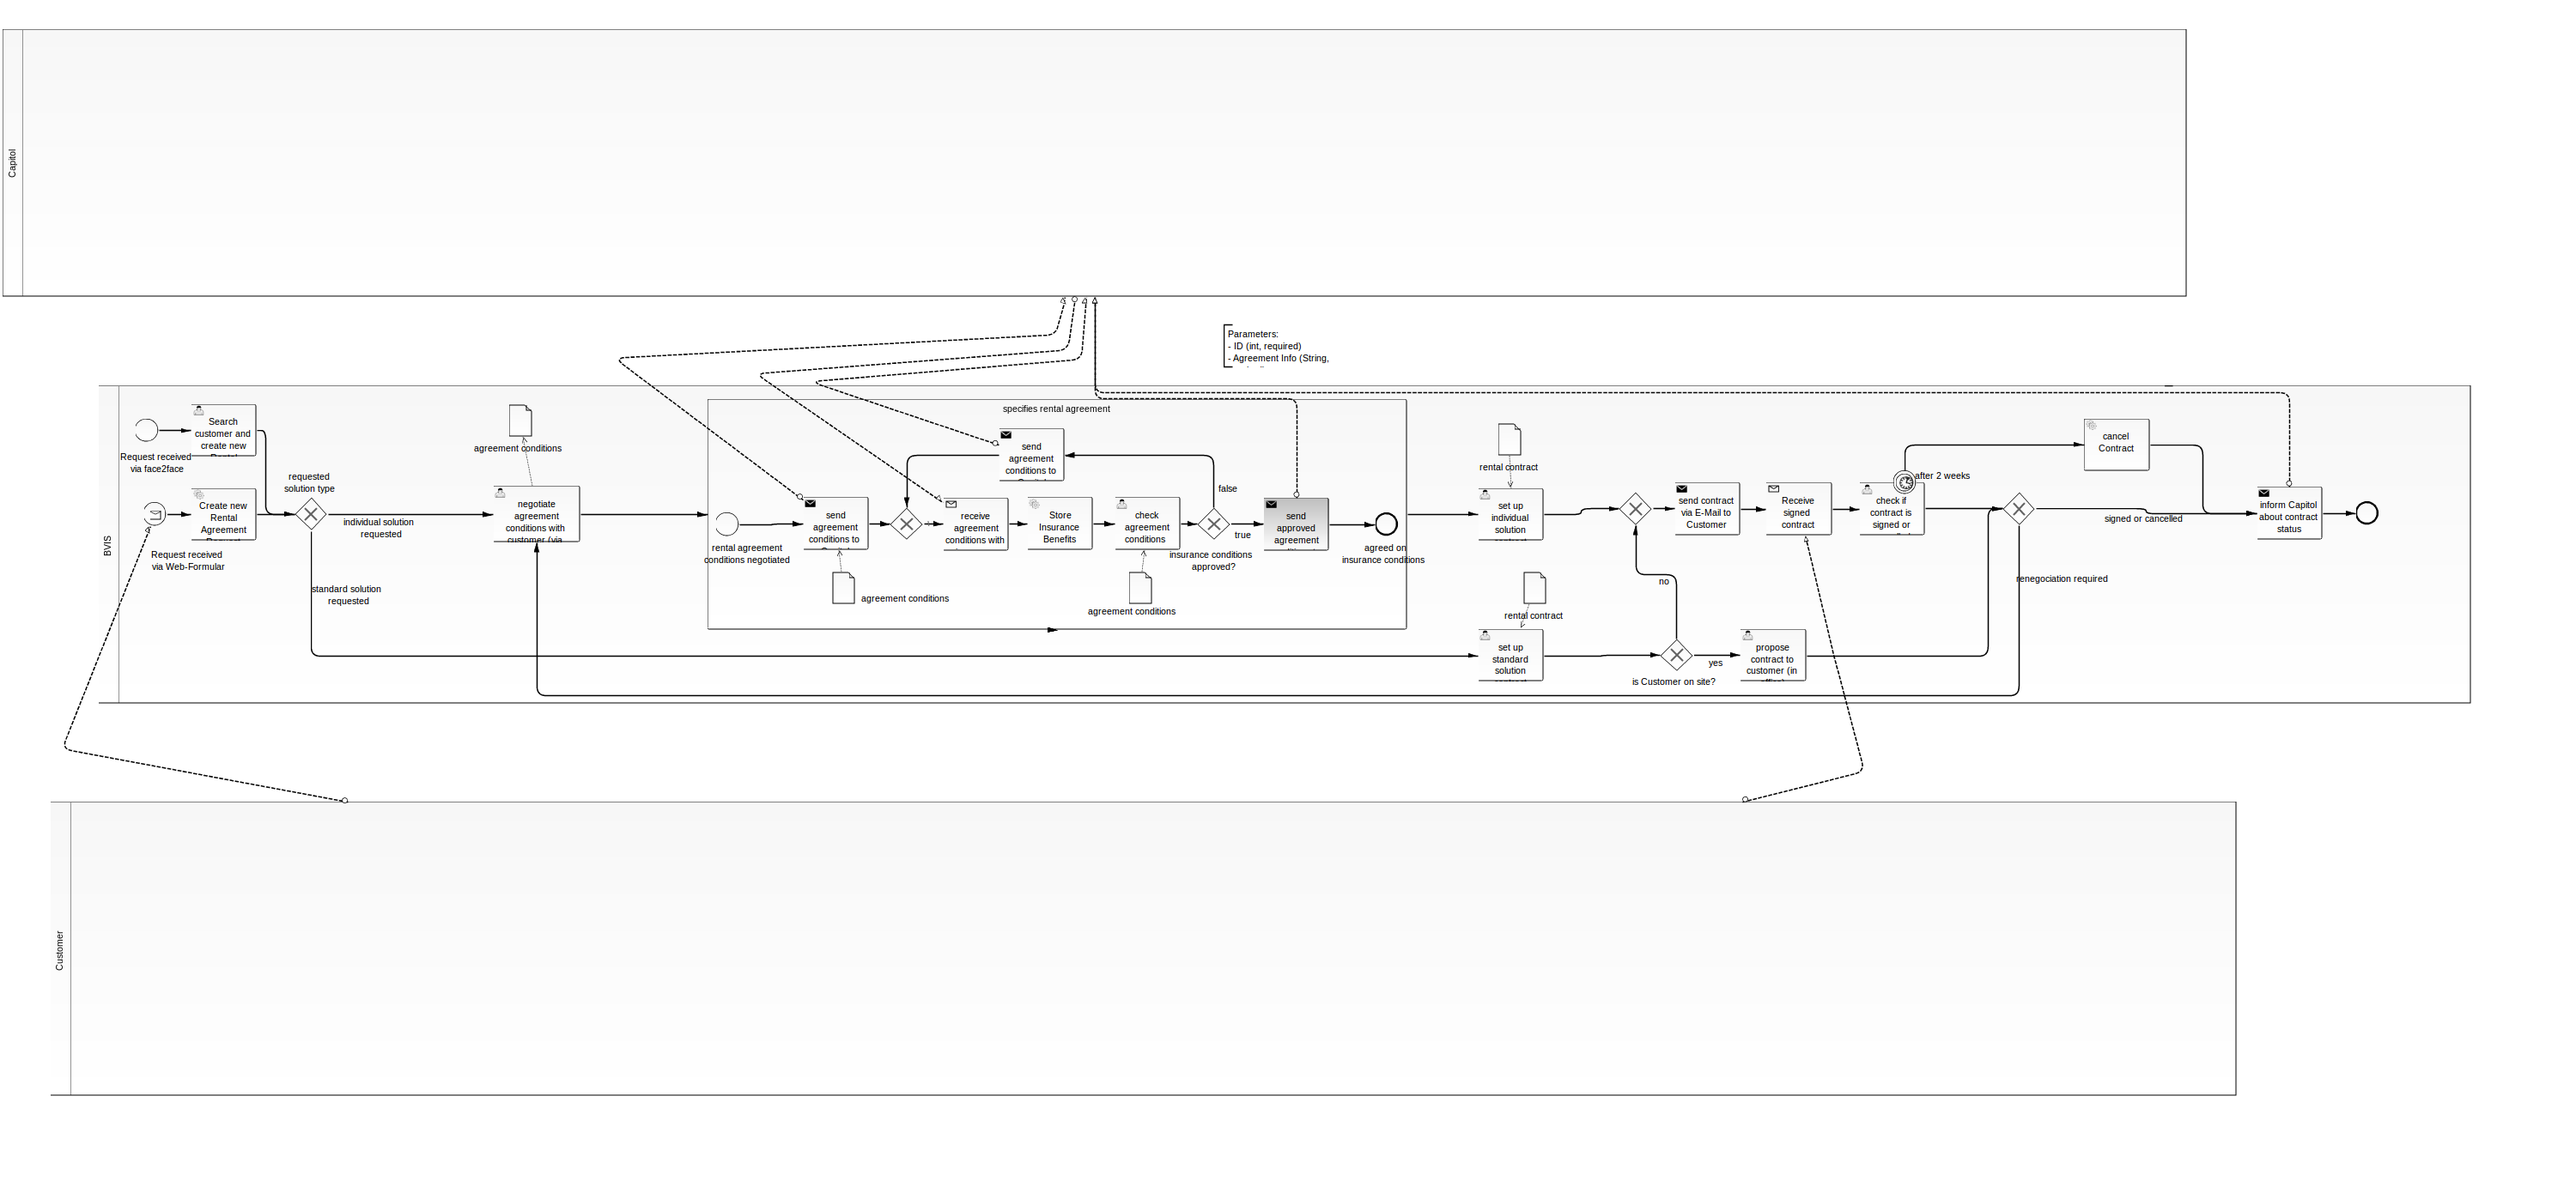
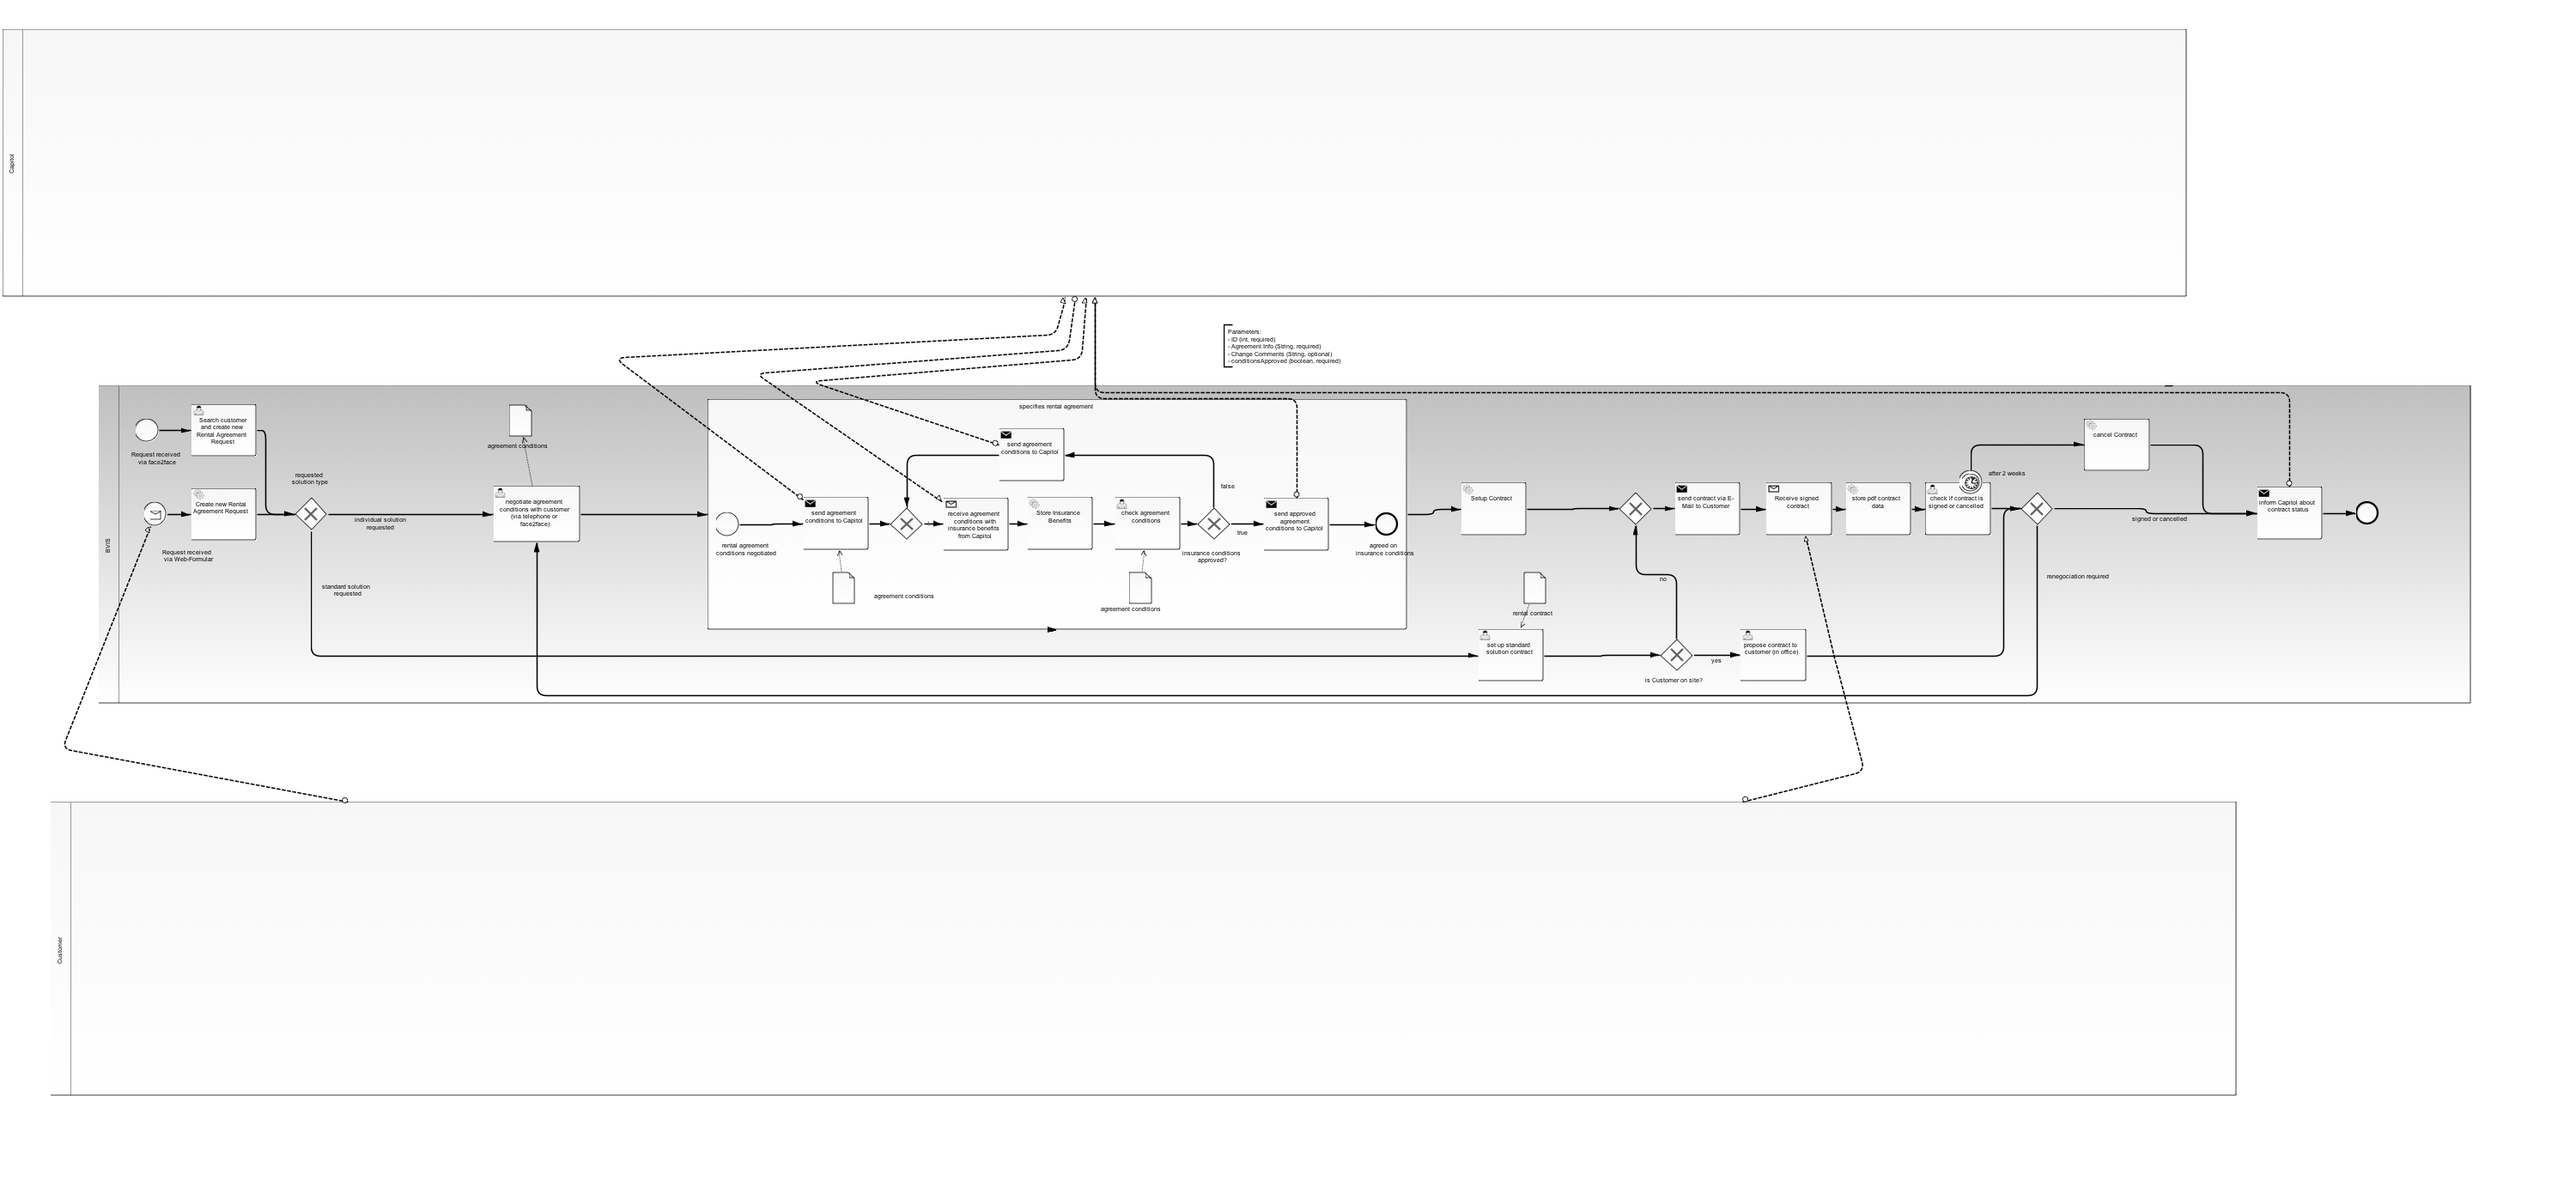
Service Task

diff --git a/bvis/src/main/java/de/unimuenster/wi/wfm/delegates/SetupContractDelegate.java b/bvis/src/main/java/de/unimuenster/wi/wfm/delegates/SetupContractDelegate.java
@@ -1,0 +1,102 @@
+package de.unimuenster.wi.wfm.delegates;
+
+import java.io.IOException;
+import java.util.Date;
+
+import javax.ejb.EJB;
+import javax.ejb.EJBException;
+import javax.inject.Inject;
+import javax.inject.Named;
+
+import org.camunda.bpm.engine.cdi.BusinessProcess;
+import org.camunda.bpm.engine.cdi.jsf.TaskForm;
+import org.camunda.bpm.engine.delegate.DelegateExecution;
+import org.camunda.bpm.engine.delegate.JavaDelegate;
+
+import de.unimuenster.wi.wfm.ejb.CustomerServiceBean;
+import de.unimuenster.wi.wfm.ejb.RentalAgreementContractServiceBean;
+import de.unimuenster.wi.wfm.ejb.RentalAgreementRequestServiceBean;
+import de.unimuenster.wi.wfm.persistence.RentalAgreementContract;
+import de.unimuenster.wi.wfm.persistence.RentalAgreementRequest;
+import de.unimuenster.wi.wfm.web.Misc;
+
+@Named
+public class SetupContractDelegate implements JavaDelegate {
+
+	@Inject
+	private BusinessProcess businessProcess;
+	@Inject
+	private TaskForm taskForm;
+	
+	@EJB
+	private CustomerServiceBean customerService;
+	@EJB
+	private RentalAgreementRequestServiceBean rentalAgreementRequestService;
+	@EJB
+	private RentalAgreementContractServiceBean rentalAgreementContractService;
+	
+	private RentalAgreementRequest rentalAgreementRequest;
+	private long rentalAgreementRequestId;
+	private RentalAgreementContract rentalAgreementContract;
+	
+	
+	@Override
+	public void execute(DelegateExecution arg0) throws Exception {
+		
+		try {		
+			
+			// store entity in database
+			this.rentalAgreementContract.setCustomer(getRentalAgreementContract().getCustomer());
+			this.rentalAgreementContract.setRentalAgreementRequest(getRentalAgreementRequest());
+			this.rentalAgreementContract = rentalAgreementContractService.merge(getRentalAgreementContract());
+			
+			getRentalAgreementRequest().setRentalAgreementContract(this.rentalAgreementContract);
+			this.rentalAgreementRequest = rentalAgreementRequestService.merge(getRentalAgreementRequest());
+			
+			
+			// complete user task form
+			taskForm.completeTask();
+			
+			// store process variables of this process...
+			// store flag "contractNoBVIS"
+			businessProcess.setVariable( "contractNoBVIS", this.rentalAgreementContract.getId() );		
+			
+						
+			
+		} catch (EJBException e) {
+			// add all validation errors
+			Misc.ValidateBean(getRentalAgreementRequest());
+			
+		} catch (IOException e){
+			throw new RuntimeException("Cannot complete task", e);
+		}
+		
+		
+	}
+	
+	
+	public RentalAgreementRequest getRentalAgreementRequest() {
+		if (rentalAgreementRequest == null){
+			rentalAgreementRequest = rentalAgreementRequestService.getRentalAgreementRequest(getRentalAgreementRequestId());
+		}			
+		return rentalAgreementRequest;
+	}
+	
+	public long getRentalAgreementRequestId() {
+		rentalAgreementRequestId = (Long) businessProcess.getVariable("rentalAgreementRequestId");
+		return rentalAgreementRequestId;
+	}
+
+	public RentalAgreementContract getRentalAgreementContract() {
+		if (rentalAgreementContract == null)
+			rentalAgreementContract = new RentalAgreementContract();
+		rentalAgreementContract.setDate(new Date());
+		return rentalAgreementContract;
+	}
+	public void setRentalAgreementContract(RentalAgreementContract rentalAgreementContract) {
+		this.rentalAgreementContract = rentalAgreementContract;
+	}
+	
+
+
+}
